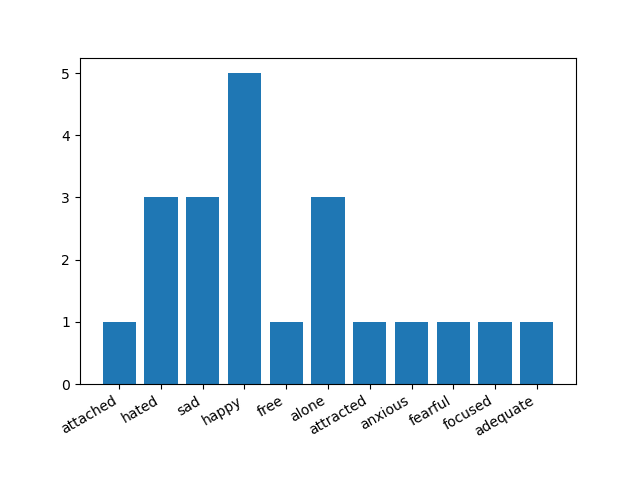
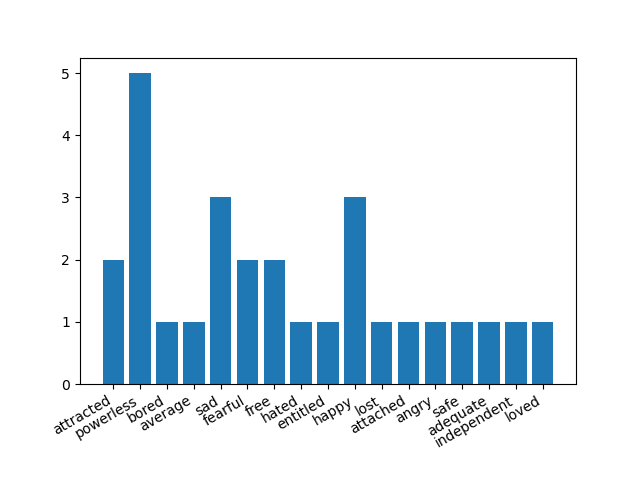
Twitter Sentiment Analysis update 2.0

Changed region(s): [[0.0625, 0.125, 0.8438, 0.9375]]

diff --git a/TwitterAnalysis.py b/TwitterAnalysis.py
@@ -1,14 +1,79 @@
+import string
+from collections import Counter
+import matplotlib.pyplot as plt
 import GetOldTweets3 as got
 
 
 def get_tweets():
-    tweetCriteria = got.manager.TweetCriteria().setQuerySearch('corona virus') \
-        .setSince("2019-08-01") \
-        .setUntil("2020-02-28") \
-        .setMaxTweets(10)
+    hashtag = input("Enter twitter Hashtag: ")
+    tweetCriteria = got.manager.TweetCriteria().setQuerySearch(hashtag) \
+        .setSince("2019-01-01") \
+        .setUntil("2020-05-30") \
+        .setMaxTweets(500)
+
+    # List of object gets stored in tweets variable
     tweets = got.manager.TweetManager.getTweets(tweetCriteria)
-    text_tweets = [[tweet.text] for tweet in tweets]
-    print(text_tweets)
+
+    # Iterating through tweets list, storing them temporarily in tweet variable.
+    # Get text and store it as a list inside text_tweets variable.
+    tweets_list = [[tweet.text] for tweet in tweets]
+    return tweets_list
 
 
-get_tweets()
+text = ""
+text_tweets = get_tweets()
+
+for i in range(0, len(text_tweets)):
+    text = text_tweets[i][0] + " " + text
+    # print(text)
+
+lowercase = text.lower()  # converting the text into lowercase.
+
+cleaned_text = lowercase.translate(
+    str.maketrans('', '', string.punctuation))  # cleaning the text -> removing all the punctuations.
+# print(string.punctuation)
+
+# Tokenization
+tokenized_words = cleaned_text.split()
+
+# Stop words
+
+# print(tokenized_words)
+stop_words = ["i", "me", "my", "myself", "we", "our", "ours", "ourselves", "you", "your", "yours", "yourself",
+              "yourselves", "he", "him", "his", "himself", "she", "her", "hers", "herself", "it", "its", "itself",
+              "they", "them", "their", "theirs", "themselves", "what", "which", "who", "whom", "this", "that", "these",
+              "those", "am", "is", "are", "was", "were", "be", "been", "being", "have", "has", "had", "having", "do",
+              "does", "did", "doing", "a", "an", "the", "and", "but", "if", "or", "because", "as", "until", "while",
+              "of", "at", "by", "for", "with", "about", "against", "between", "into", "through", "during", "before",
+              "after", "above", "below", "to", "from", "up", "down", "in", "out", "on", "off", "over", "under", "again",
+              "further", "then", "once", "here", "there", "when", "where", "why", "how", "all", "any", "both", "each",
+              "few", "more", "most", "other", "some", "such", "no", "nor", "not", "only", "own", "same", "so", "than",
+              "too", "very", "s", "t", "can", "will", "just", "don", "should", "now"]
+
+final_words = []
+for word in tokenized_words:
+    if word not in stop_words:
+        final_words.append(word)
+
+# print(final_words)
+
+emotion_list = []
+with open('emotions.txt', 'r') as file_emotions:
+    for line in file_emotions:
+        cleaned_line = line.replace("\n", "").replace(",", "").replace("'", "").strip()
+        # print(cleaned_line)
+        word, emotion = cleaned_line.split(": ")
+        # print("Word:", word, ",", "Emotion:", emotion)
+
+        if word in final_words:
+            emotion_list.append(emotion)
+
+# print(emotion_list)
+count_emotion = Counter(emotion_list)
+
+# print(count_emotion)
+fig, ax1 = plt.subplots()
+ax1.bar(count_emotion.keys(), count_emotion.values())
+fig.autofmt_xdate()
+plt.savefig("graph.png")
+plt.show()
